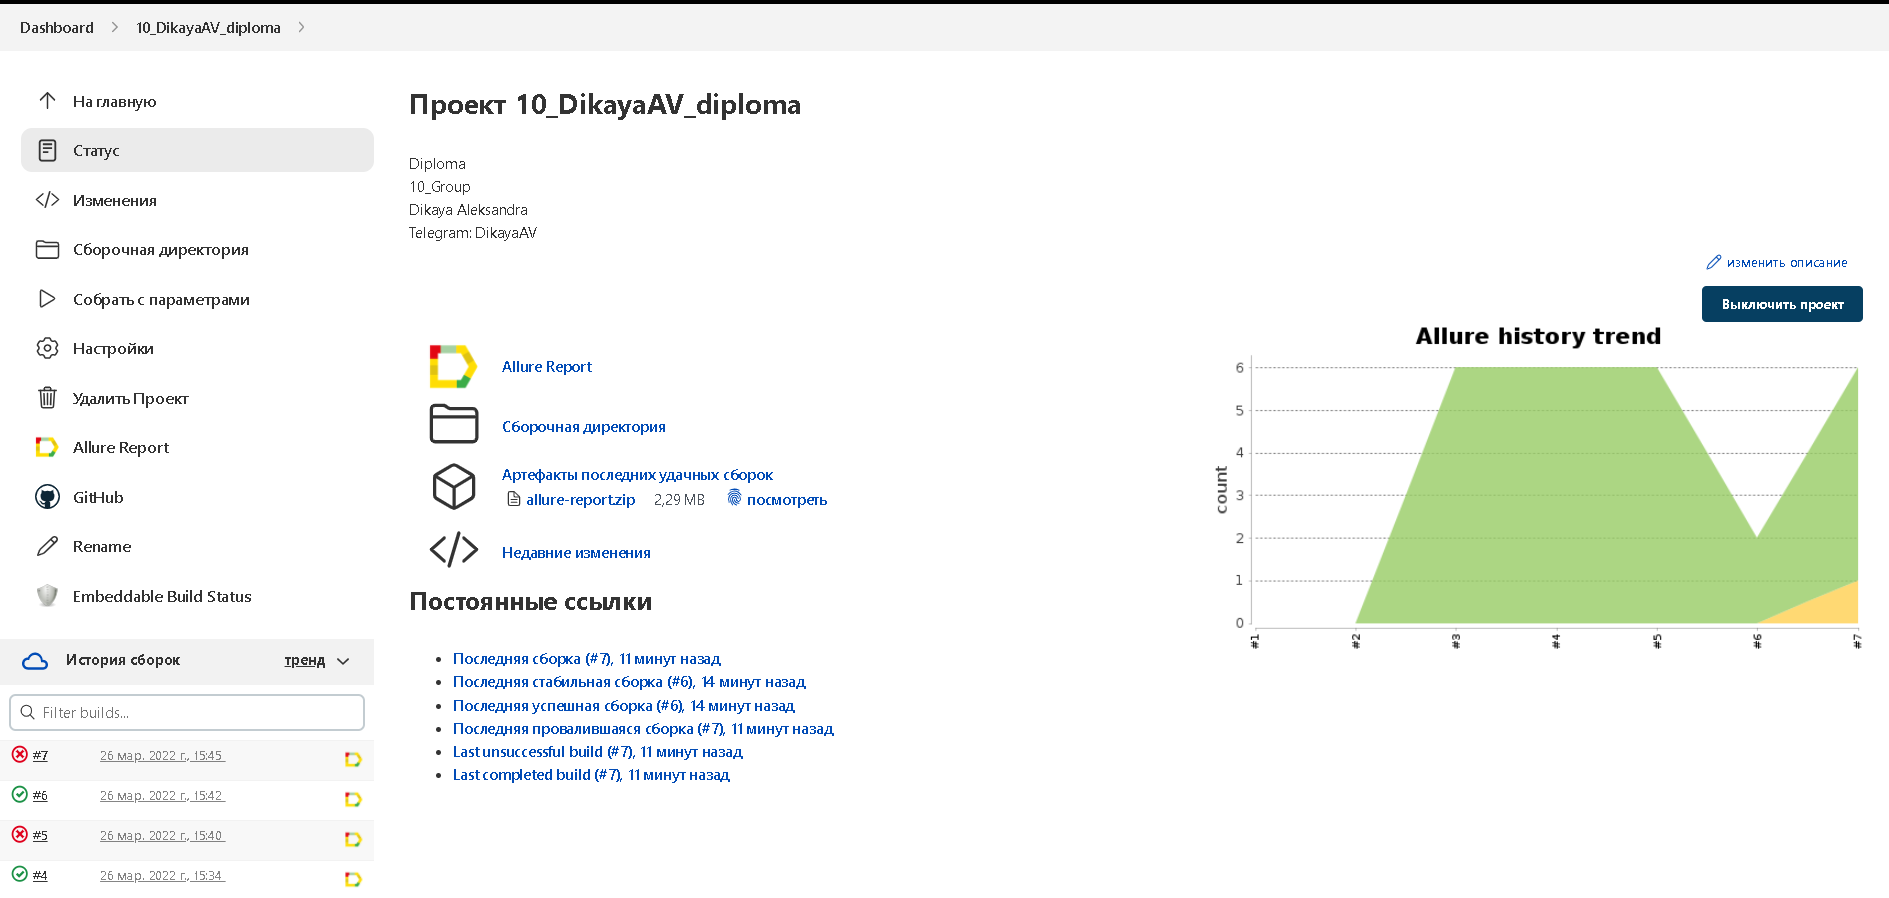
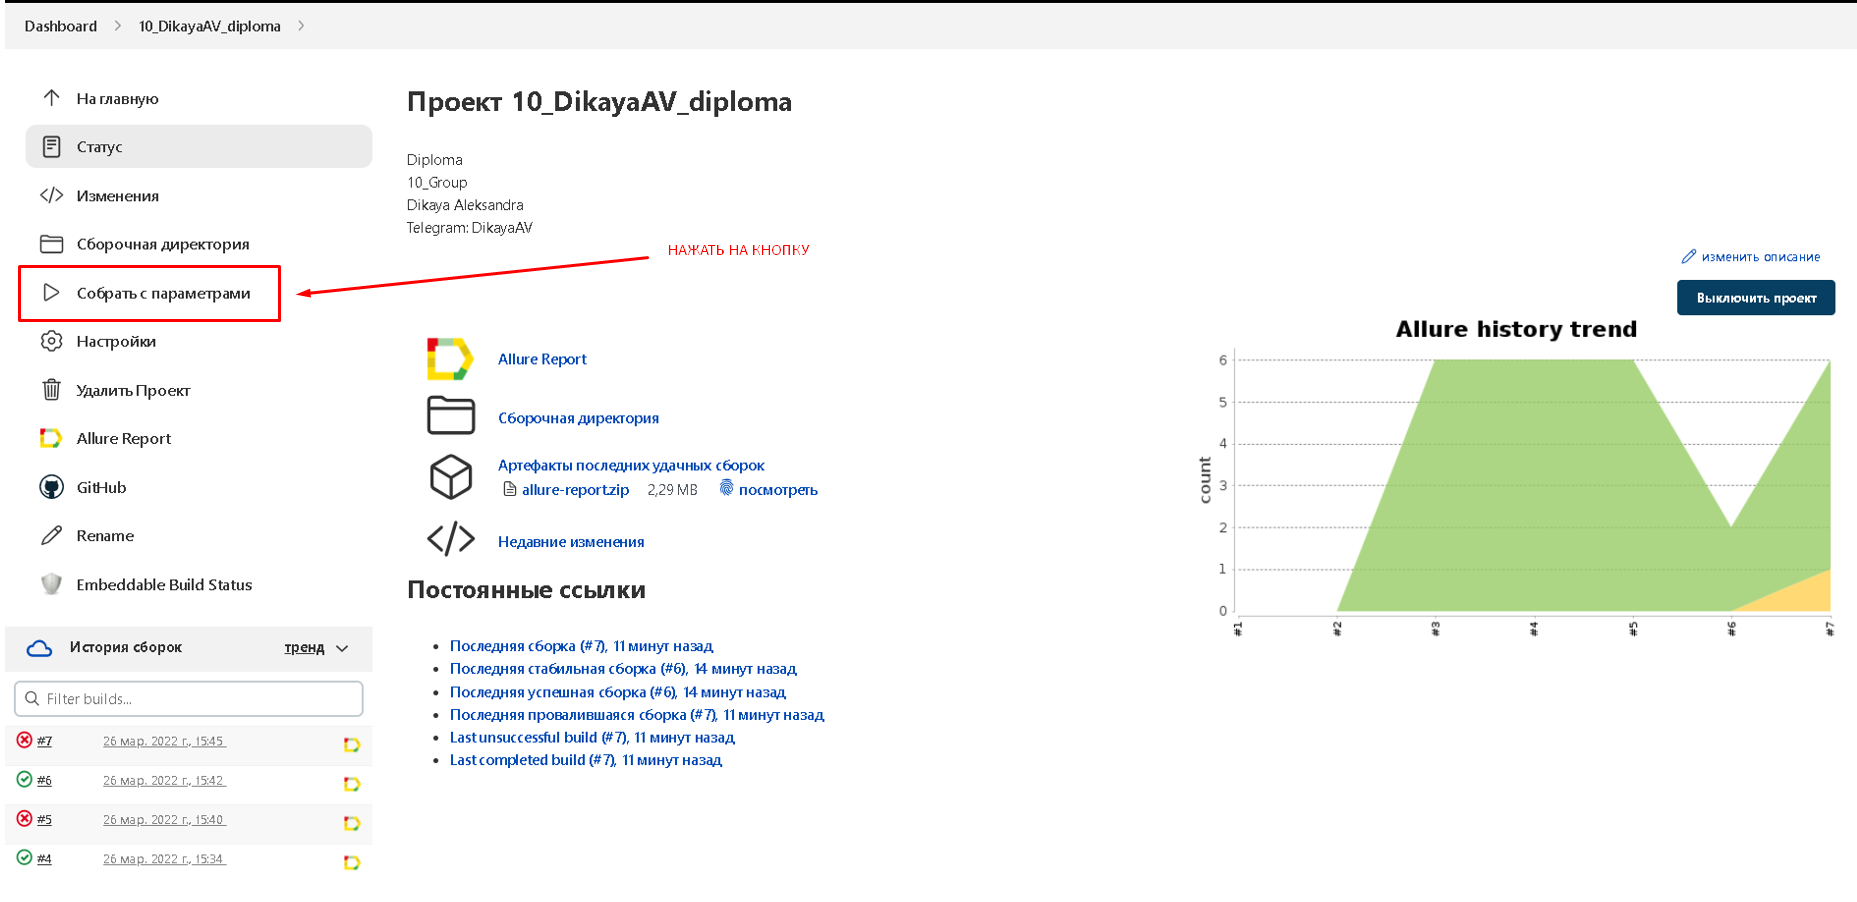
diploma creation

diff --git a/README.md b/README.md
@@ -39,9 +39,31 @@
 - ✓ Смена языка с русского на английский
 - ✓ Заполнение Запроса в отдел продаж
 
-## <img src="images/logo/Jenkins.svg" width="25" height="25"  alt="Jenkins"/></a> Jenkins <a target="_blank" href="https://jenkins.autotests.cloud/job/10_DikayaAV_diploma/"> job </a>
+## :boom: Запуск тестов
+
+### Локальный запуск :
+```
+gradle clean test
+```
+
+### Удаленный запуск:
+```
+clean
+test
+-Dbrowser=${BROWSER}
+-Dversion=${VERSION}
+-Dsize=${BROWSER_SIZE}
+-Durl=${REMOTE_URL}
+```
+
+### <img src="images/logo/Jenkins.svg" width="25" height="25"  alt="Jenkins"/></a> Запуск через  <a target="_blank" href="https://jenkins.autotests.cloud/job/10_DikayaAV_diploma/"> Jenkins </a>
+
 <p align="center">
 <a href="https://jenkins.autotests.cloud/job/10_DikayaAV_diploma/"><img src="images/screens/Jenkins.png" alt="Jenkins"/></a>
+</p>
+
+<p align="center">
+<a href="https://jenkins.autotests.cloud/job/10_DikayaAV_diploma/"><img src="images/screens/Jenkins2.png" alt="Jenkins"/></a>
 </p>
 
 ### :maple_leaf: Параметры сборки в Jenkins:
@@ -51,22 +73,10 @@
 - size (размер окна браузера, по умолчанию 1920x1080)
 - remoteUrl (логин, пароль и адрес удаленного сервера selenoid)
 
-## :japanese_ogre: Запуск тестов из терминала
 
-Локальный запуск:
-```
-gradle clean test
-```
 
-Удаленный запуск:
-```
-clean
-test
--Dbrowser=${BROWSER}
--Dversion=${VERSION}
--Dsize=${BROWSER_SIZE}
--Durl=${REMOTE_URL}
-```
+
+
 
 ## <img src="images/logo/Allure.svg" width="25" height="25"  alt="Allure"/></a> Отчет в <a target="_blank" href="https://jenkins.autotests.cloud/job/10_DikayaAV_diploma/allure/">Allure report</a>
 
